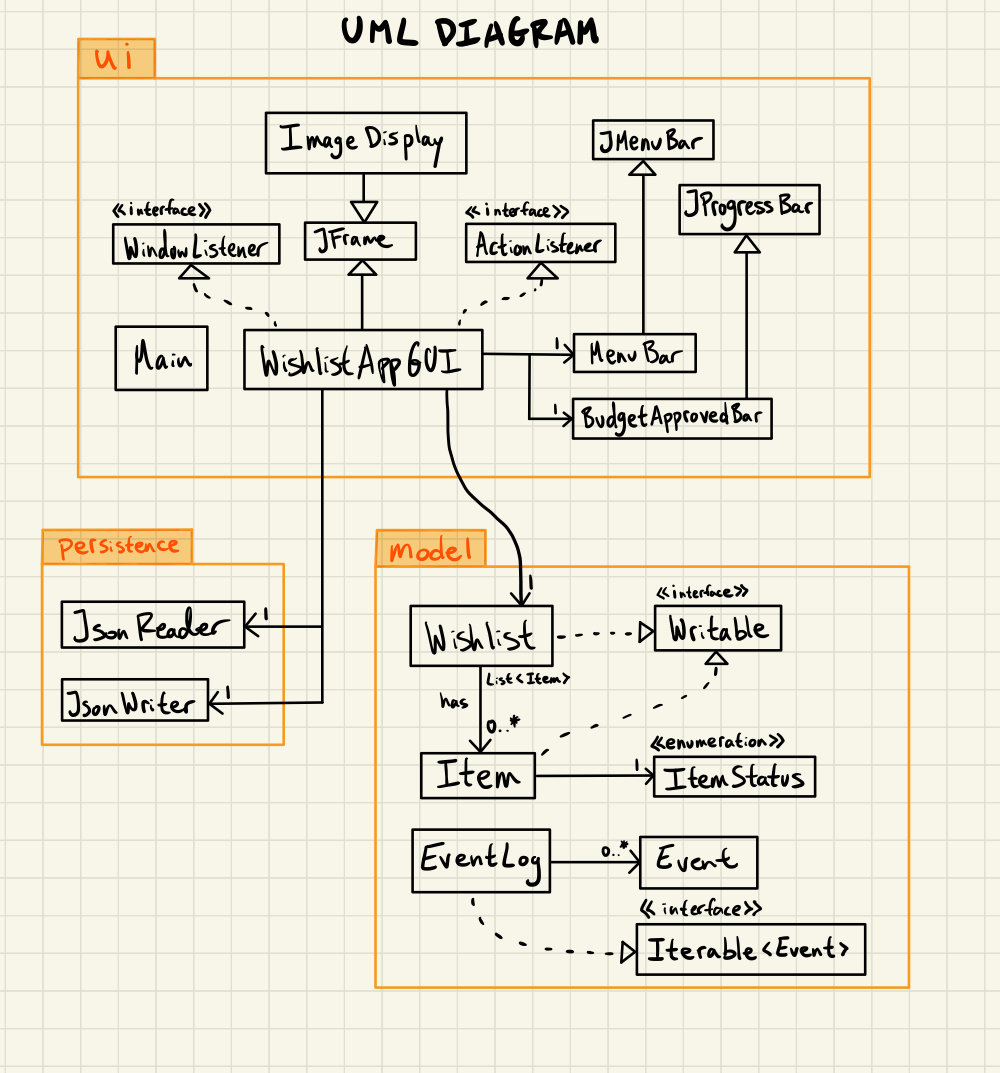
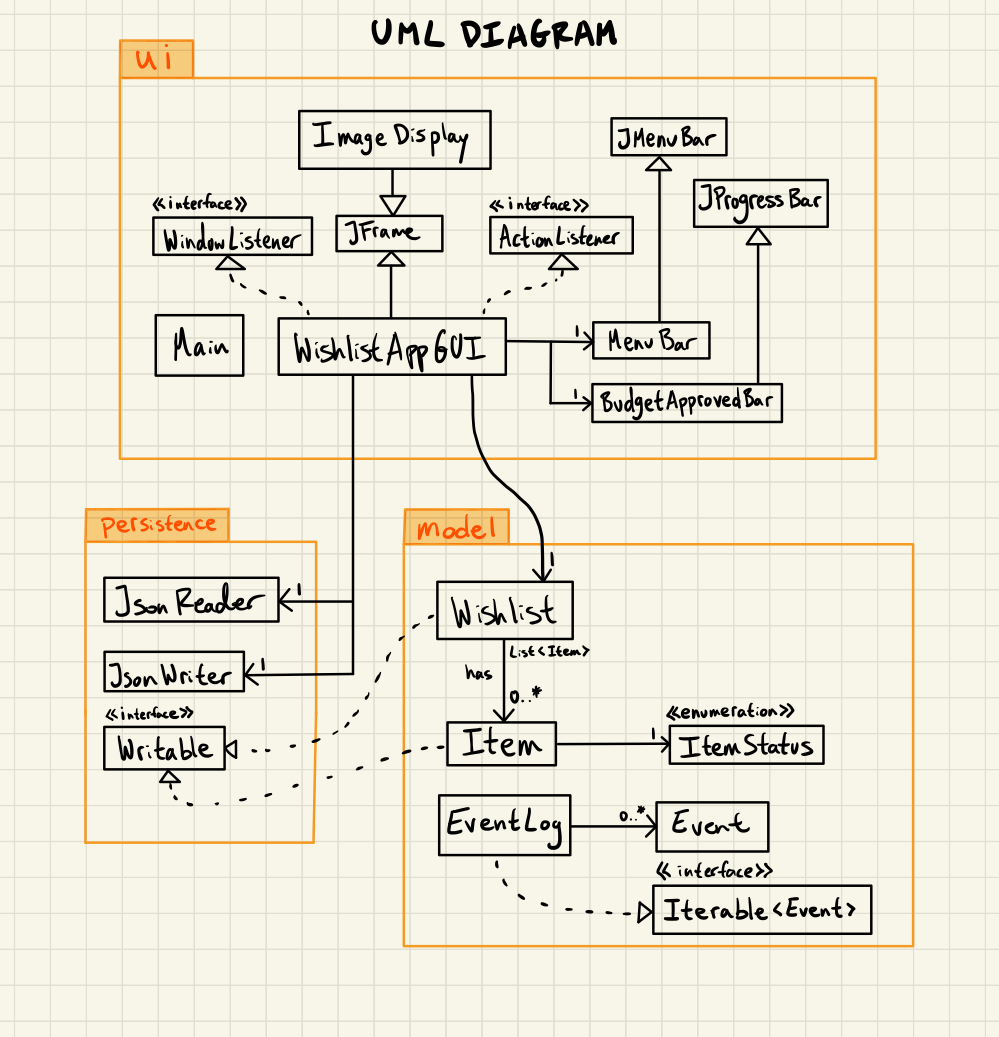
Complete Phase 4:
- Update the printAllEvents() method in WishlistAppGUI to include the date that the event occurred
- Update Phase 4: Task 2 in README.md to include date
- Update the UML diagram to show appropriate package contents

Changed region(s): [[0.031, 0.0, 0.9309, 0.9257]]

diff --git a/src/main/ui/WishlistAppGUI.java b/src/main/ui/WishlistAppGUI.java
@@ -18,6 +18,7 @@ import java.awt.event.WindowListener;
 import java.io.FileNotFoundException;
 import java.io.IOException;
 
+import java.sql.SQLOutput;
 import java.util.List;
 
 // Wishlist application to create, manage, save, and load a wishlist with graphical components!
@@ -284,6 +285,7 @@ public class WishlistAppGUI extends JFrame implements ActionListener, WindowList
      */
     private void printAllEvents() {
         for (Event event : EventLog.getInstance()) {
+            System.out.print(event.getDate() + ": ");
             System.out.println(event.getDescription() + "\n");
         }
     }

diff --git a/src/main/ui/Main.java b/src/main/ui/Main.java
@@ -2,7 +2,6 @@ package ui;
 
 // Main method for the wishlist manager to create and initialize the wishlist manager application
 public class Main {
-
     public static void main(String[] args) {
         new WishlistAppGUI();
     }

diff --git a/README.md b/README.md
@@ -34,35 +34,45 @@ have a more relaxing time.
 
 ## Phase 4: Task 2
 
-Created Eric's Birthday with a budget of $1000.0
+Wed Apr 12 16:11:23 PDT 2023: Created a new item: Sake
 
-Created a new item: Shoes
+Wed Apr 12 16:11:23 PDT 2023: Added 3x Sake @ $40.0 Status: PENDING to Trip to Japan
 
-Added 2x Shoes @ $120.0 Status: PENDING to Eric's Birthday
+Wed Apr 12 16:11:44 PDT 2023: Created a new item: Figurines
 
-Created a new item: Skateboard
+Wed Apr 12 16:11:44 PDT 2023: Added 2x Figurines @ $45.0 Status: PENDING to Trip to Japan
 
-Added 1x Skateboard @ $160.0 Status: PENDING to Eric's Birthday
+Wed Apr 12 16:12:47 PDT 2023: Created a new item: Camera
 
-Item Shoes status has been set to PURCHASED
+Wed Apr 12 16:12:47 PDT 2023: Added 1x Camera @ $500.0 Status: PENDING to Trip to Japan
 
-Item Skateboard status has been set to PURCHASED
+Wed Apr 12 16:13:34 PDT 2023: Created a new item: Shoes
 
-Eric's Birthday's items have been sorted by price.
+Wed Apr 12 16:13:34 PDT 2023: Added 1x Shoes @ $250.0 Status: PENDING to Trip to Japan
 
-Created a new item: Phone
+Wed Apr 12 16:13:53 PDT 2023: Created a new item: Glasses
 
-Added 1x Phone @ $800.0 Status: PENDING to Eric's Birthday
+Wed Apr 12 16:13:53 PDT 2023: Added 1x Glasses @ $100.0 Status: PENDING to Trip to Japan
 
-Budget of $1000.0 has been exceeded
+Wed Apr 12 16:13:53 PDT 2023: Budget of $1000.0 has been exceeded
 
-Phone has been deleted from Eric's Birthday
+Wed Apr 12 16:14:16 PDT 2023: Shoes has been deleted from Trip to Japan
 
-Created a new item: Headphones
+Wed Apr 12 16:14:20 PDT 2023: Trip to Japan's items have been sorted by price.
 
-Added 1x Headphones @ $500.0 Status: PENDING to Eric's Birthday
+Wed Apr 12 16:14:35 PDT 2023: Item Figurines status has been set to PURCHASED
 
-Item Headphones status has been set to PURCHASED
+Wed Apr 12 16:14:35 PDT 2023: Item Glasses status has been set to PURCHASED
+
+Wed Apr 12 16:14:35 PDT 2023: Item Sake status has been set to PURCHASED
+
+Wed Apr 12 16:14:35 PDT 2023: Item Camera status has been set to PURCHASED
+
+Wed Apr 12 16:15:40 PDT 2023: Created a new item: Pudding
+
+Wed Apr 12 16:15:40 PDT 2023: Added 5x Pudding @ $1.0 Status: PENDING to Trip to Japan
+
+Wed Apr 12 16:15:43 PDT 2023: Item Pudding status has been set to PURCHASED
 
 ## Phase 4: Task 3
 If I had more time to work on my project, I would refactor accordingly to improve the design:
